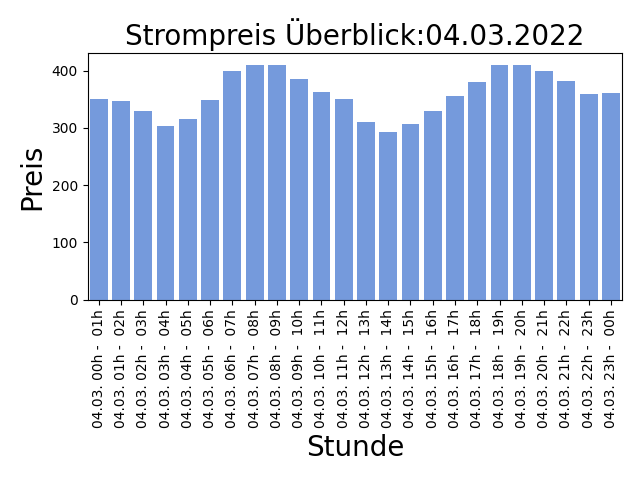
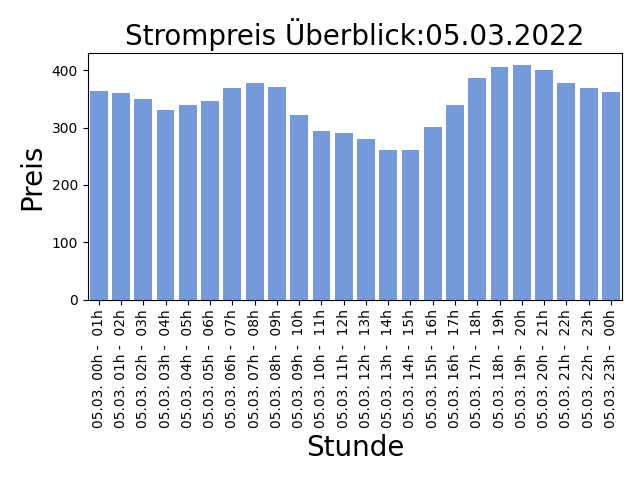
AUTOMATIC UPDATE PRICE LIST: 2022-03-04-14:30:06

diff --git a/README.md b/README.md
@@ -1,5 +1,5 @@
 
-## Strompreise für den 04.03.2022
+## Strompreise für den 05.03.2022
 
 Niedrige Preise deuten auf viel Sonnen und Windenergieerzeugung hin, ein hoher Anteil an erneuerbaren Energien bedeuted weniger CO2 Verbrauch!
 
@@ -7,31 +7,31 @@ Niedrige Preise deuten auf viel Sonnen und Windenergieerzeugung hin, ein hoher A
 
 | Stunde | Preis in Eur/MWh |
 |---|---|
-| 04.03. 00h -  01h | 351.07 | 
-| 04.03. 01h -  02h | 346.6 | 
-| 04.03. 02h -  03h | 329.4 | 
-| 04.03. 03h -  04h | 304.05 | 
-| 04.03. 04h -  05h | 315.0 | 
-| 04.03. 05h -  06h | 349.07 | 
-| 04.03. 06h -  07h | 398.6 | 
-| 04.03. 07h -  08h | 410.0 | 
-| 04.03. 08h -  09h | 410.05 | 
-| 04.03. 09h -  10h | 385.16 | 
-| 04.03. 10h -  11h | 362.95 | 
-| 04.03. 11h -  12h | 349.78 | 
-| 04.03. 12h -  13h | 310.69 | 
-| **04.03. 13h -  14h** | **292.16** | 
-| 04.03. 14h -  15h | 307.43 | 
-| 04.03. 15h -  16h | 329.95 | 
-| 04.03. 16h -  17h | 355.77 | 
-| 04.03. 17h -  18h | 380.94 | 
-| 04.03. 18h -  19h | 410.0 | 
-| 04.03. 19h -  20h | 410.0 | 
-| 04.03. 20h -  21h | 400.08 | 
-| 04.03. 21h -  22h | 381.83 | 
-| 04.03. 22h -  23h | 359.07 | 
-| 04.03. 23h -  00h | 361.01 | 
+| 05.03. 00h -  01h | 363.87 | 
+| 05.03. 01h -  02h | 360.0 | 
+| 05.03. 02h -  03h | 350.0 | 
+| 05.03. 03h -  04h | 330.0 | 
+| 05.03. 04h -  05h | 338.85 | 
+| 05.03. 05h -  06h | 347.04 | 
+| 05.03. 06h -  07h | 369.0 | 
+| 05.03. 07h -  08h | 378.1 | 
+| 05.03. 08h -  09h | 370.53 | 
+| 05.03. 09h -  10h | 322.34 | 
+| 05.03. 10h -  11h | 293.81 | 
+| 05.03. 11h -  12h | 290.57 | 
+| 05.03. 12h -  13h | 279.3 | 
+| **05.03. 13h -  14h** | **260.35** | 
+| 05.03. 14h -  15h | 260.56 | 
+| 05.03. 15h -  16h | 301.36 | 
+| 05.03. 16h -  17h | 339.99 | 
+| 05.03. 17h -  18h | 385.63 | 
+| 05.03. 18h -  19h | 405.78 | 
+| 05.03. 19h -  20h | 409.3 | 
+| 05.03. 20h -  21h | 400.0 | 
+| 05.03. 21h -  22h | 377.25 | 
+| 05.03. 22h -  23h | 369.63 | 
+| 05.03. 23h -  00h | 362.4 | 
 
 Preise der EPEX Spot ® Strombörse (neue Preise werden täglich um 14:00 veröffentlicht für den kompletten nächsten Tag).
 
-letzte Aktualisierung:03.03.2022 14:30
+letzte Aktualisierung:04.03.2022 14:30
